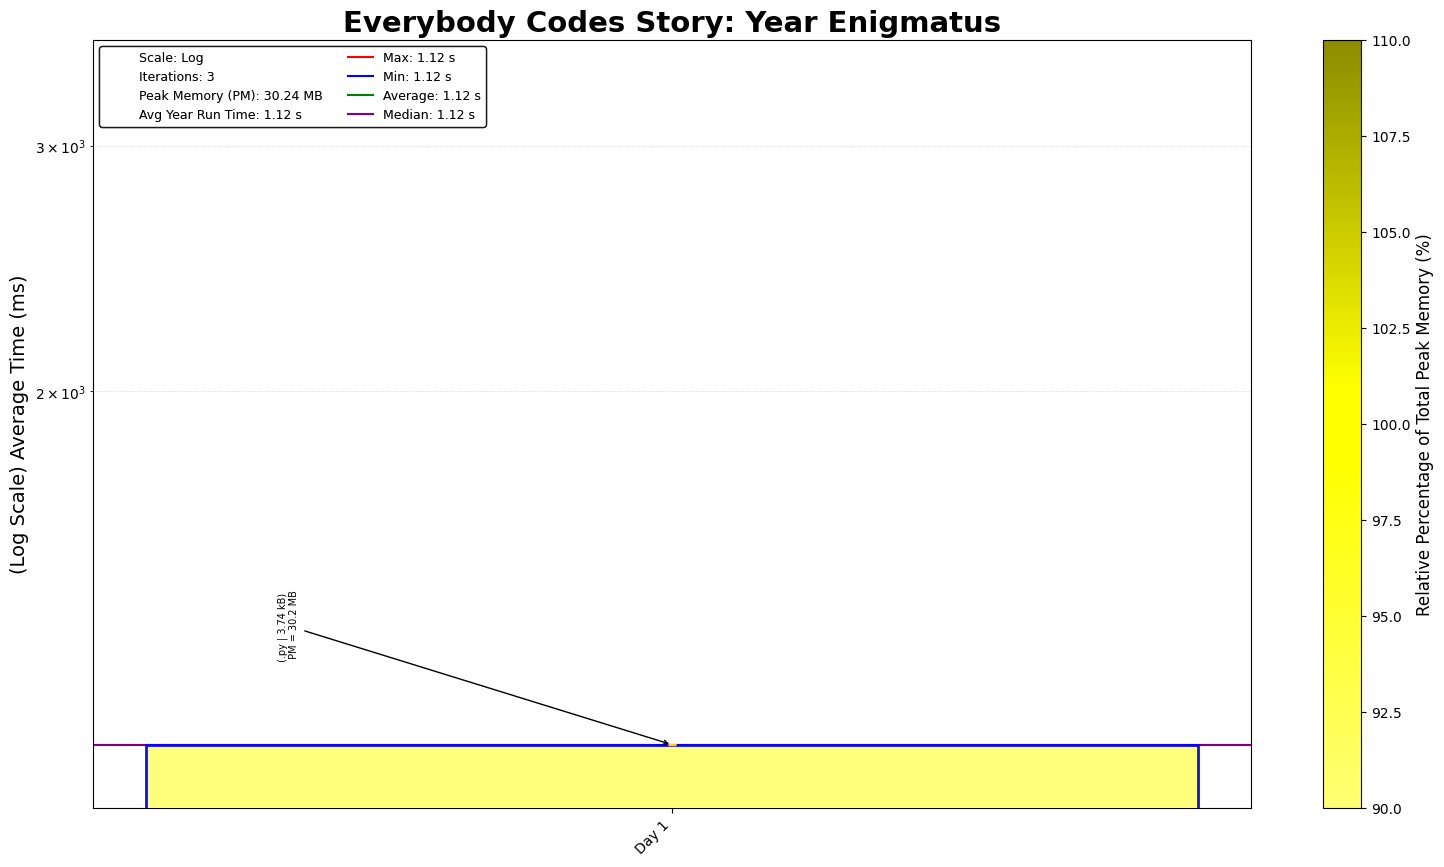
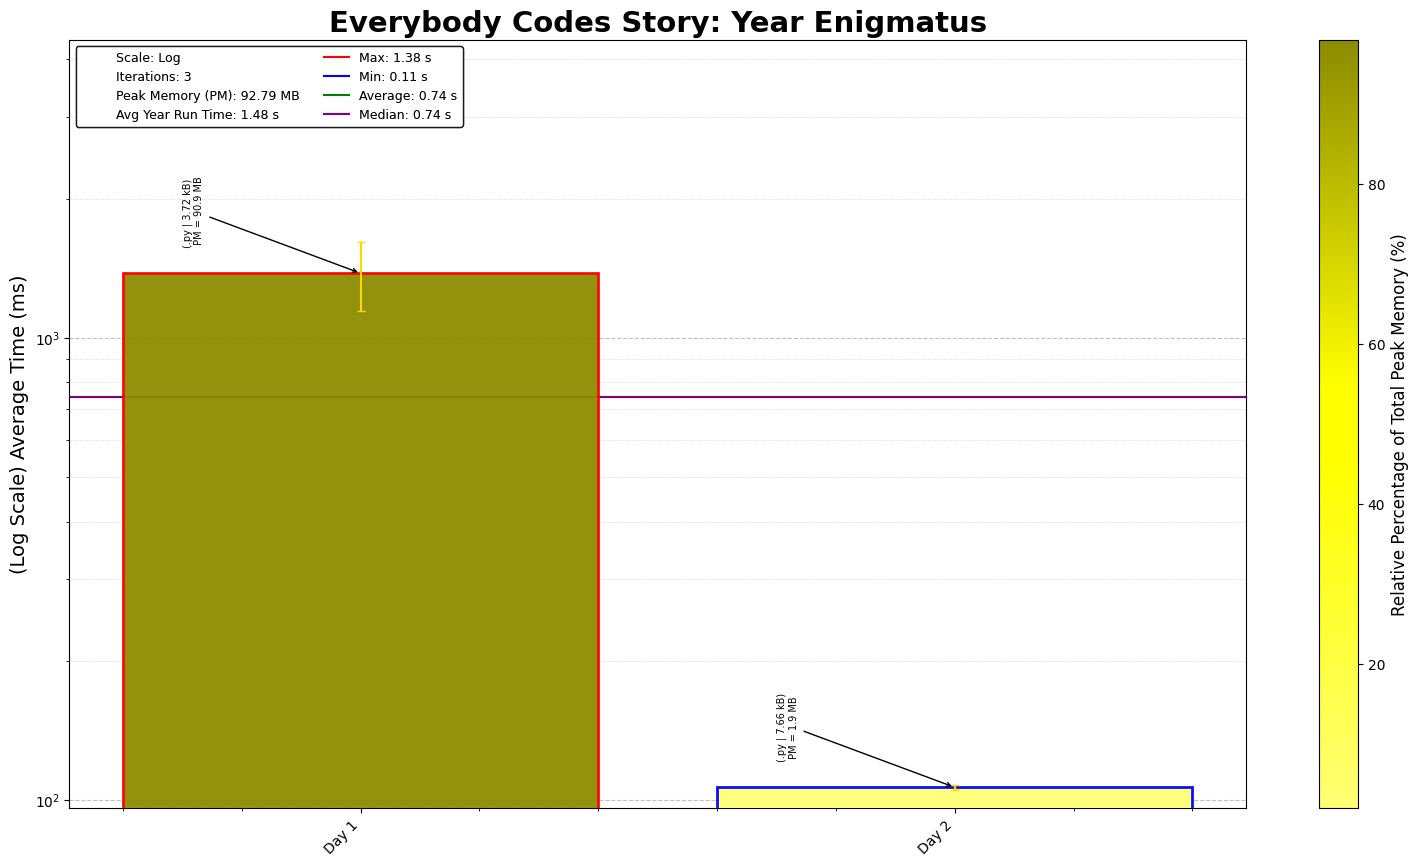
Enigmatus Day 2

diff --git a/Enigmatus/02/EnigmatusDay02.py b/Enigmatus/02/EnigmatusDay02.py
@@ -1,0 +1,217 @@
+"""# Everybody Codes - Day 2, Story Enigmatus
+# Solved in Jun, 2025
+# Puzzle Link: https://everybody.codes/story/1/quests/2
+# Solution by: [abbasmoosajee07]
+# Brief: [Tangled Trees]
+"""
+
+#!/usr/bin/env python3
+
+import os, re, copy, time, sys
+from collections import defaultdict
+start_time = time.time()
+
+# List of input file names
+input_files = ["Day02_p1_input.txt", "Day02_p2_input.txt", "Day02_p3_input.txt"]
+
+# Read and split the input data into individual lists
+input_data_p1, input_data_p2, input_data_p3 = [
+    open(os.path.join(os.path.dirname(__file__), file)).read().strip().split('\n')
+    for file in input_files
+]
+
+class SingleTree:
+    def __init__(self):
+        self.nodes = {}  # Stores node paths and their values
+        self.depths = defaultdict(int)  # Tracks depth counts
+        self.ids = {}    # Maps IDs to node paths
+
+    def add(self, id_, value, symbol):
+        node_path = ''
+        while node_path in self.nodes:
+            node_value = self.nodes[node_path][0]
+            if value < node_value:
+                node_path += 'L'
+            else:
+                node_path += 'R'
+
+        self.nodes[node_path] = (value, symbol)
+        self.depths[len(node_path)] += 1
+        self.ids[id_] = node_path
+
+    def message(self):
+        if not self.depths:
+            return ''
+
+        # Find the depth with the most nodes
+        max_depth = max(self.depths.values())
+        target_depths = [d for d, count in self.depths.items() if count == max_depth]
+
+        # If multiple depths have the same max count, choose the smallest one
+        target_depth = min(target_depths)
+
+        # Collect symbols at target depth and sort by path
+        symbols = []
+        for path, (_, symbol) in self.nodes.items():
+            if len(path) == target_depth:
+                symbols.append((path, symbol))
+
+        symbols.sort()
+        return ''.join(symbol for _, symbol in symbols)
+
+    def message_dict(self):
+        """Alternative representation of the message data"""
+        message_data = defaultdict(list)
+        for path, (value, symbol) in self.nodes.items():
+            depth = len(path)
+            message_data[depth].append((value, symbol))
+        return message_data
+
+class TangledTrees:
+    def __init__(self, notes: list[tuple]):
+        self.notes_list = notes
+        self.command_list = self.parse_input()
+        self.left_tree = SingleTree()
+        self.right_tree = SingleTree()
+
+    def parse_input(self):
+        operations_dict = {}
+        pattern = (
+            r'(?P<operation>\w+)\s+id=(?P<id>\d+)\s+'
+            r'left=\[(?P<left_pos>\d+),(?P<left_val>[^\],]+)\]\s+'
+            r'right=\[(?P<right_pos>\d+),(?P<right_val>[^\],]+)\]'
+        )
+        for line_no, line in enumerate(self.notes_list):
+            match = re.match(pattern, line.strip())
+            if match:
+                line_id = int(match.group('id'))
+                oper = match.group('operation')
+                line_dict = {
+                    'L': (int(match.group('left_pos')), match.group('left_val')),
+                    'R': (int(match.group('right_pos')), match.group('right_val'))
+                }
+                operations_dict[line_no] = (oper, line_id,  line_dict['L'], line_dict['R'])
+            elif "SWAP" in line:
+                swap, swap_no = line.split(' ')
+                operations_dict[line_no] = (swap, int(swap_no))
+
+        return operations_dict
+
+    def build_tree(self):
+        for command in self.command_list.values():
+            if command[0] == 'ADD':
+                _, id_, left, right = command
+                self.left_tree.add(id_, left[0], left[1])
+                self.right_tree.add(id_, right[0], right[1])
+            elif command[0] == 'SWAP':
+                _, id_ = command
+                self.swap_nodes(id_)
+        return {
+            'L': self.left_tree.message_dict(),
+            'R': self.right_tree.message_dict()
+        }
+
+    def swap_nodes(self, id_):
+        # Get the node paths from both trees
+        left_node = self.left_tree.ids.get(id_)
+        right_node = self.right_tree.ids.get(id_)
+
+        if left_node and right_node:
+            # Swap the values between the trees
+            left_val = self.left_tree.nodes[left_node]
+            right_val = self.right_tree.nodes[right_node]
+
+            self.left_tree.nodes[left_node] = right_val
+            self.right_tree.nodes[right_node] = left_val
+
+    def find_message(self):
+        self.build_tree()
+        return self.left_tree.message() + self.right_tree.message()
+
+
+message_p1 = TangledTrees(input_data_p1).find_message()
+print("Quest 1:", message_p1)
+
+message_p2 = TangledTrees(input_data_p2).find_message()
+print("Quest 2:", message_p2)
+
+class ConnectedTrees:
+    def __init__(self):
+        self.nodes = {}
+        self.id_map = defaultdict(list)  # Maps ID to node paths
+
+    def add(self, start, id_, value, symbol):
+        node = start
+        while node in self.nodes:
+            node_value = self.nodes[node][1]
+            if value < node_value:
+                node += 'L'
+            else:
+                node += 'R'
+        self.nodes[node] = [id_, value, symbol]
+        self.id_map[id_].append(node)
+
+    def swap(self, id_):
+        if id_ not in self.id_map or len(self.id_map[id_]) != 2:
+            return
+
+        node1, node2 = self.id_map[id_]
+
+        # Create new mapping with swapped nodes
+        new_nodes = {}
+        for node, value in self.nodes.items():
+            if node.startswith(node1):
+                new_node = node2 + node[len(node1):]
+            elif node.startswith(node2):
+                new_node = node1 + node[len(node2):]
+            else:
+                new_node = node
+            new_nodes[new_node] = value
+
+        # Update id_map for all affected nodes
+        self.nodes = new_nodes
+        self.id_map = defaultdict(list)
+        for node, (id_, _, _) in self.nodes.items():
+            self.id_map[id_].append(node)
+
+    def submessage(self, start):
+        subtree = {node: value for node, value in self.nodes.items() 
+                    if node.startswith(start)}
+        if not subtree:
+            return ''
+
+        # Find all lengths in the subtree
+        lengths = {len(node) for node in subtree}
+
+        # Count nodes at each length and find the length with most nodes
+        length_counts = [(length, sum(1 for n in subtree if len(n) == length)) 
+                        for length in lengths]
+        max_count = max(count for _, count in length_counts)
+        target_lengths = [length for length, count in length_counts 
+                            if count == max_count]
+        target_length = min(target_lengths)  # Prefer shallower depth if tie
+
+        # Collect and sort symbols at target length
+        symbols = [(node, value[2]) for node, value in subtree.items() 
+                    if len(node) == target_length]
+        symbols.sort()
+        return ''.join(symbol for _, symbol in symbols)
+
+    def message(self):
+        return self.submessage('L') + self.submessage('R')
+
+def build_forest(commands):
+    connected_trees = ConnectedTrees()
+    for command in commands.values():
+        if command[0] == 'ADD':
+            _, id_, lvalue, rvalue = command
+            connected_trees.add('L', id_, *lvalue)
+            connected_trees.add('R', id_, *rvalue)
+        elif command[0] == 'SWAP':
+            _, id_ = command
+            connected_trees.swap(id_)
+    return connected_trees.message()
+
+message_p3 = build_forest(TangledTrees(input_data_p3).parse_input())
+print("Quest 3:", message_p3)
+print(f"Execution Time = {time.time() - start_time:.5f}s")

diff --git a/Enigmatus/01/EnigmatusDay01.py b/Enigmatus/01/EnigmatusDay01.py
@@ -2,7 +2,7 @@
 # Solved in Jun, 2025
 # Puzzle Link: https://everybody.codes/story/1/quests/1
 # Solution by: [abbasmoosajee07]
-# Brief: [Code/Problem Description]
+# Brief: [EniCode]
 """
 
 #!/usr/bin/env python3

diff --git a/Enigmatus/README_Enigmatus.md b/Enigmatus/README_Enigmatus.md
@@ -5,6 +5,6 @@
 
 ## Day-by-Day Coding Overview
 
-1. **Quest 1 -**: Modular Math with large numbers and identifying cycles.
-2. **Quest 2 -**:
+1. **Quest 1 - EniCode**: Modular Math with large numbers and identifying cycles.
+2. **Quest 2 - TangledTrees**: Create a network of connected information and then manipulate it.
 3. **Quest 3 -**:
